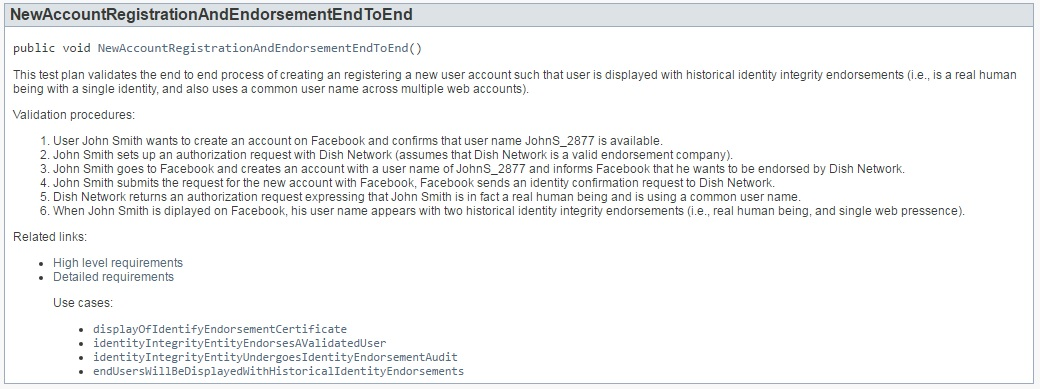
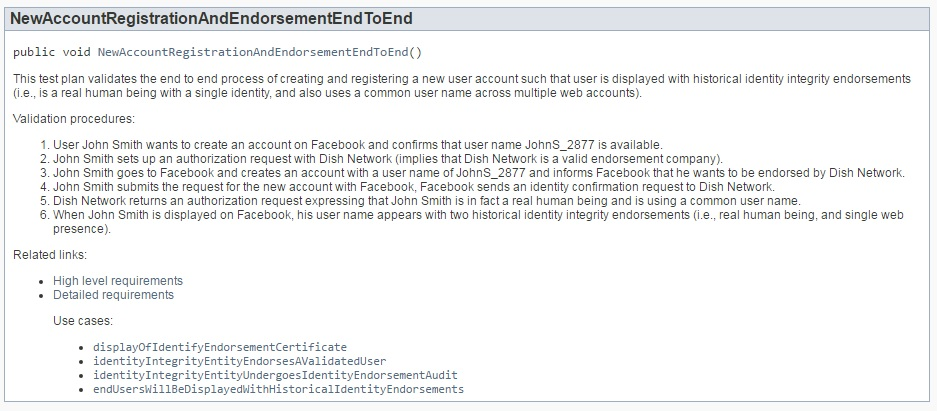
Spelling, updated diagrams (because of spelling) and minor additions.

diff --git a/Prototype1/TrackableItemsViaJavadocs.html b/Prototype1/TrackableItemsViaJavadocs.html
@@ -30,13 +30,13 @@ sectionMenu[9]='<a href="#Feedback">Feedback</a>'
 </head>
 
 <a name="Top">
-<h2>Trackable items - javadoc can help</h2>
+<h2>Trackable items - Javadoc can help</h2>
 <a name="Overview">
 <p><em onClick="return clickreturnvalue()" onMouseover="dropdownmenu(this, event, sectionMenu, '250px')" onMouseout="delayhidemenu()">Overview</em>
 <ul>
-   <p>In an  <a href="Javadocs.html"><i>earlier article</i></a>, I describe some of the short comings of javadoc as a tool for documenting overall system design (although I do mention some areas where javadocs can actually help - like with 3rd party libraries and foundation classes).  In this article, I'm going to explore how javadocs can help with trackable items, as well as the relationships between trackable items. 
+   <p>In an  <a href="Javadocs.html"><i>earlier article</i></a>, I describe some of the short comings of Javadoc as a tool for documenting overall system design (although I do mention some areas where Javadoc can actually help - like with 3rd party libraries and foundation classes).  In this article, I'm going to explore how Javadoc can help with trackable items and the relationships between trackable items. 
    
-   <p>Before I get started, I need to first explain what I mean by a trackable item.   When considering software development projects, most think of the software artifacts that are built - namely the packages, classes and methods.   So it shouldn't be surprising that when most think about javadocs, they think about documentation for packages, classes and methods.   But such documentation is typically only of interest to the software developers themselves - and even then, such documentation is infrequently used.  But I'm going to suggest that there are a far greater number of other items which are of interest to those involved in software development, and very often these other items are an after thought (i.e., they are done after the development life cycle, and often they are done by other organizations).   So I'm going to suggest that if you want to have total software quality, then perhaps these other items should be integrated into the overall software solution.  This isn't an exhaustive list, but hopefully the following illustrates some trackable items that you might recognize: 
+   <p>Before I get started, I need to first explain what I mean by a trackable item.   When considering software development projects, most think of the software artifacts that are built - namely the packages, classes and methods.   So it shouldn't be surprising that when most think about Javadoc, they think about documentation for packages, classes and methods.   But such documentation is typically only of interest to the software developers themselves - and even then, such documentation is infrequently used.  But I'm going to suggest that there are a far greater number of other items which are of interest to those involved in software development, and very often these other items are an after and are not fully integrated into the overall software documentation strategy.   So I'm going to suggest that if you want to have total software quality, then perhaps these other items should be integrated into the overall software solution.  This isn't an exhaustive list, but hopefully the following illustrates some trackable items that you might recognize: 
    
    <ul>
       <li>Business requirements
@@ -49,13 +49,13 @@ sectionMenu[9]='<a href="#Feedback">Feedback</a>'
 	  <li>Execution status (e.g., the running of a test plan for a given release)
    </ul>
    
-   <p>And note, although this article will describe a possible solution, that doesn't imply that companies should jump right in and do this.  There are tons of cultural issues within a compnay that need to be considered, so know your company, and know what you are looking to accomplish, before considering recommendations in this article.  And besides, it is possible that there are frameworks (possibly even free ones) which can handle some or most of what I express below.  So I suggest this article be used as a focus for creative thinking and critical assessment of your current methodology - perhaps it will help.
+   <p>And note, although this article will describe a possible solution, that doesn't imply that companies should jump right in and do this.  There are tons of cultural issues within a company that need to be considered, so know your company, and know what you are looking to accomplish, before considering recommendations in this article.  And besides, it is possible that there are frameworks (possibly even free ones) which can handle some or most of what I express below.  So I suggest this article be used as a focus for creative thinking and critical assessment of your current methodology - perhaps it will help.
 </ul>
 
 <a name="Requirements">
 <p><em onClick="return clickreturnvalue()" onMouseover="dropdownmenu(this, event, sectionMenu, '250px')" onMouseout="delayhidemenu()">Requirements</em>
 <ul> 
-   <p>Before showing how javadocs could be used for trackable items, I will first define a set of requirements.
+   <p>Before showing how Javadoc could be used for trackable items, I will first define a set of requirements.
    
    <ol>
      <li>No new software can be purchased.
@@ -80,31 +80,31 @@ sectionMenu[9]='<a href="#Feedback">Feedback</a>'
 	 <li>IDE (e.g., Eclipse, IntilJ)
 	 <li>Web browser
 	 <li>Web server hosting svn
-	 <li>Web server hosting generated javadocs
-	 <li>Daily build process which generates javadocs
+	 <li>Web server hosting generated Javadoc
+	 <li>Daily build process which generates Javadoc
    </ol>
 </ul>
 
 <a name="ProposedSolution">
 <p><em onClick="return clickreturnvalue()" onMouseover="dropdownmenu(this, event, sectionMenu, '250px')" onMouseout="delayhidemenu()">Proposed solution</em>
 <ul> 
-   <p>Java and javadoc</p>
+   <p>Java and Javadoc</p>
    <ul>
       <p>Java obviously supports packages, classes and methods - so it is a perfect toolset for defining an infinitely deep logical organization of things (where the things are the trackable items, as well as the relationships between the trackable items).
 	  
-	  <p>Assuming trackable items are defined as methods in classes, then javadoc comments could be written for those methods thus expressing the details about the item, and javadoc tags could be used for point and click navigation between items.
+	  <p>Assuming trackable items are defined as methods in classes, then Javadoc comments could be written for those methods thus expressing the details about the item, and Javadoc tags could be used for point and click navigation between items.
 	  
-	  <p>As for "where used" and other programmatic validation of relationships, since java classes are used, the method body can be used to reference other trackable items - this will give you compile time validation of relationships and typical IDE search capability can give you "where used" report.
+	  <p>As for "where used" and other programmatic validation of relationships, since Java classes are used, the method body can be used to reference other trackable items - this will give you compile time validation of relationships and typical IDE search capability can give you "where used" report.
    </ul>
 
    <p>Web browser and web server hosted content
    <ul>
-     <p>With the use of packages, classes and methods, the logical structure of trackable items and their relationships is defined (mentioned above).  It is the web browser and generated javadocs which allow a user to easily navigate between the various views.  For example, a user might want to start with test suite X which contains 10 test cases.  The user navigates to each test case (using the point and click nature of the javadoc link tag), reads the comments about the test cases, and then follows links to the business requirements which the test case satisfies.   All of this is possible via relationship tags embedded in the javadoc comments about the various trackable items.
+     <p>With the use of packages, classes and methods, the logical structure of trackable items and their relationships is defined (mentioned above).  It is the web browser and generated Javadoc which allow a user to easily navigate between the various views.  For example, a user might want to start with test suite X which contains 10 test cases.  The user navigates to each test case (using the point and click nature of the Javadoc link tag), reads the comments about the test cases, and then follows links to the business requirements which the test cases satisfy.   All of this is possible via relationship tags embedded in the Javadoc comments about the various trackable items.
    </ul>
    
    <p>Daily build and IDEs
    <ul>
-     <p>Although generation of javadocs can be done locally (by a given developer, on their laptop), a daily build process ensures that javadocs are always available via a web server which hosts the generated javadocs.
+     <p>Although generation of Javadoc can be done locally (by a given developer, on their laptop), a daily build process ensures that Javadoc is always available via a web server which hosts the generated Javadoc.
    </ul>
 </ul>
 
@@ -121,7 +121,7 @@ sectionMenu[9]='<a href="#Feedback">Feedback</a>'
 	  <li><p><a href="#HistoricalIdentityIntegrityUseCases">HistoricalIdentityIntegrityUseCases</a> - this contains the set of use cases for registering a user with some service provider and subsequently viewing that user with their confirmed <a href="http://mrdmadison.github.io/Test1/Prototype1/CollaborationChapter4.htm#14-Historical_identity_integrity" title="If you review the requirements spec, you'll see that I suggest that knowing whether a given web user is a real person, and whether that person has a consistent web identity, can add value to those interacting with the given user.">endorsements</a>. 
     </ul>
 	  
-    <p>And although not shown in the example below, it is obviously possible to include both javadoc link tags and trackable item references directly within automated test drivers.  Once the trackable items are mature (and highly valued), it makes sense to reference them.   Remember, in an earlier Javadocs <a href="Javadocs.html"><i> article</i></a>, it is mentioned that inclusion of links from multiple places increases viewership and thus can aid in the overall quality of content.	
+    <p>And although not shown in the example below, it is obviously possible to include both Javadoc link tags and trackable item references directly within automated test drivers.  Once the trackable items are mature (and highly valued), it makes sense to reference them.   Remember, in an earlier Javadoc <a href="Javadocs.html"><i> article</i></a>, it is mentioned that inclusion of links from multiple places increases viewership and thus can aid in the overall quality of content.	
 </ul>
 
 
@@ -133,21 +133,21 @@ sectionMenu[9]='<a href="#Feedback">Feedback</a>'
 public class HistoricalIdentityIntegrityTestPlan extends TestPlan 
 {
     /**
-     * &lt;p&gt;This test plan validates the end to end process of creating an registering a new user account such that user
+     * &lt;p&gt;This test plan validates the end to end process of creating and registering a new user account such that user
      * is displayed with historical identity integrity endorsements (i.e., is a real human being with a single
      * identity, and also uses a common user name across multiple web accounts).
      * 
      * &lt;p&gt;Validation procedures:
      * &lt;ol&gt;
      *   &lt;li&gt;User John Smith wants to create an account on Facebook and confirms that user name JohnS_2877 is available.
-     *   &lt;li&gt;John Smith sets up an authorization request with Dish Network (assumes that Dish Network is a valid endorsement company).
+     *   &lt;li&gt;John Smith sets up an authorization request with Dish Network (implies that Dish Network is a valid endorsement company).
      *   &lt;li&gt;John Smith goes to Facebook and creates an account with a user name of JohnS_2877 and informs Facebook that he wants to be
      *       endorsed by Dish Network.
      *   &lt;li&gt;John Smith submits the request for the new account with Facebook, Facebook sends an identity confirmation request to Dish Network.
      *   &lt;li&gt;Dish Network returns an authorization request expressing that John Smith is in fact a real human being and is using a common 
      *       user name.
-     *   &lt;li&gt;When John Smith is diplayed on Facebook, his user name appears with two historical identity integrity endorsements
-     *       (i.e., real human being, and single web pressence).
+     *   &lt;li&gt;When John Smith is displayed on Facebook, his user name appears with two historical identity integrity endorsements
+     *       (i.e., real human being, and single web presence).
      * &lt;/ol&gt;
      * 
      * &lt;p&gt;Related links:
@@ -156,7 +156,7 @@ public class HistoricalIdentityIntegrityTestPlan extends TestPlan
      *   &lt;li&gt;&lt;a href="http://mrdmadison.github.io/Test1/Prototype1/CollaborationChapter4.htm#14-Historical_identity_integrity"&gt;Detailed requirements&lt;/a&gt;
      * 
      *   &lt;p&gt;Use cases:
-     *   &lt;ul&gt;<b title="Using @link tag in javadocs offers point and click navigation via the generated javadocs - this helps with usefulness of documentation from a human consumption perspective.">
+     *   &lt;ul&gt;<b title="Using @link tag in Javadoc offers point and click navigation - this helps with usefulness of documentation from a human consumption perspective.">
      *      &lt;li&gt; {@link com.HistoricalIdentityIntegrityUseCases#displayOfIdentifyEndorsementCertificate() displayOfIdentifyEndorsementCertificate}
      *      &lt;li&gt; {@link com.HistoricalIdentityIntegrityUseCases#identityIntegrityEntityEndorsesAValidatedUser() identityIntegrityEntityEndorsesAValidatedUser} 
      *      &lt;li&gt; {@link com.HistoricalIdentityIntegrityUseCases#identityIntegrityEntityUndergoesIdentityEndorsementAudit() identityIntegrityEntityUndergoesIdentityEndorsementAudit}
@@ -175,7 +175,7 @@ public class HistoricalIdentityIntegrityTestPlan extends TestPlan
 }
 </pre>
 
-<p>Generated javadoc:</p>
+<p>Generated Javadoc:</p>
 <ul>
 <a href="http://mrdmadison.github.io/Test1/Prototype1/CollaborationChapter1.htm"><img src="SampleTestPlan.jpg"/></a>
 </ul>
@@ -192,7 +192,7 @@ public class HistoricalIdentityIntegrityUseCases extends UseCase
 
     /**
      * Companies and organizations which want to participate in historical identity integrity must be certified that they
-     * are adhere to all the guidelines and best practices surrounding validating end users.  The endorsing entity will
+     * adhere to all the guidelines and best practices surrounding validating end users.  The endorsing entity will
      * apply for certification, and once they successfully complete the audit process, they will be awarded an
      * identity integrity certificate.   
      * 
@@ -223,7 +223,7 @@ public class HistoricalIdentityIntegrityUseCases extends UseCase
 }
 </pre>
 
-<p>Generated javadoc:</p>
+<p>Generated Javadoc:</p>
 <ul>
 <a href="http://mrdmadison.github.io/Test1/Prototype1/CollaborationChapter1.htm"><img src="SampleUseCases.jpg"/></a>
 </ul>
@@ -233,13 +233,17 @@ public class HistoricalIdentityIntegrityUseCases extends UseCase
 <a name="Summary">
 <p><em onClick="return clickreturnvalue()" onMouseover="dropdownmenu(this, event, sectionMenu, '250px')" onMouseout="delayhidemenu()">Summary</em>
 <ul> 
-    <li><p>If you have a need express details about various items of interest, and if there is a need to track the relationship between these items, consider using java/javadocs to manage this.  When coupled with javadoc generation and viewing view a web browser or via an <i>IDE</i>, the user experience will be far superior than trying to manage the <i title="As an alternative, some IT organizations try to manage this in MS word documents coupled with spreadsheets and manual tracking of relationships.">details manually</i>.
+    <li><p>If you have a need to express details about various items of interest, and if there is a need to track the relationship between these items, consider using Java/Javadoc to manage this.  When coupled with Javadoc generation and viewing in a web browser or via an <i>IDE</i>, the user experience will be far superior than trying to manage the <i title="As an alternative, some IT organizations try to manage this in MS word documents coupled with spreadsheets and manual tracking of relationships.">details manually</i>.
 	  
-    <li><p>If attempting to roll this out, be aware that tracking of a large number of interrelated items will not go smoothly initially.   Like all hierarchies, if you create a lot of line items but don't get the decomposition correct, making changes after the fact can be painful.
+	<li><p>The power and benefit of Java, the Java compiler, and the rich conventions established on Java projects over the years should not be under estimated.  Although I caution against rapidly adopting Java/Javadoc for trackable items on a large scale, attempting a manual tracking methodology (e.g., naming items as anchored subsections in raw HTML coupled with external docs or database entries) would be far worse.  This is because such methodologies don't benefit from the Java/Javadoc compiler and the rich features in IDEs.
+	
+	<li><p>Just as the software development culture generally accepts the benefits of automated regression tests (e.g., junit), consider the possibility that a similar paradigm exists for traceability.  Given the fact that Java supports annotations which can be embedded in both application software and the automated tests which validate the application, it should be obvious that automated traceability of use cases, business requirements, and software artifacts is certainly possible.  And when appropriate, an enterprise can evolve dashboards to express the status about trackable items, and their relationships can be used to further explain the status.  So the take away for this item is that a home grown culture which leverages manually generated links and manual documentation of the relationships between the items moves an organization further away from automation.	
+	  
+    <li><p>If attempting to roll this out, be aware that tracking a large number of interrelated items will not go smoothly initially.   Like all hierarchies, if you create a lot of line items but don't get the decomposition correct, making changes after the fact can be painful.
 	
 	<li><p>It is likely that small empowered teams will have a better chance of rolling out something that is useful - because they will be most familiar with their domain set, and they will be able to control the creation and maintenance of the trackable items better.   Attempting to roll-out on a large scale probably should not be done until all the kinks are worked out.
 	
-	<li><p>Research should be done to see if there are any off the shelf products which help in the management of trackable items.
+	<li><p>Research should be done to see if there are any off the shelf products which help in the management of trackable items.  But be careful - such frameworks need to be fully integrated with the application software, the automated regression tests, and all application documentation.
 </ul>
 
 
